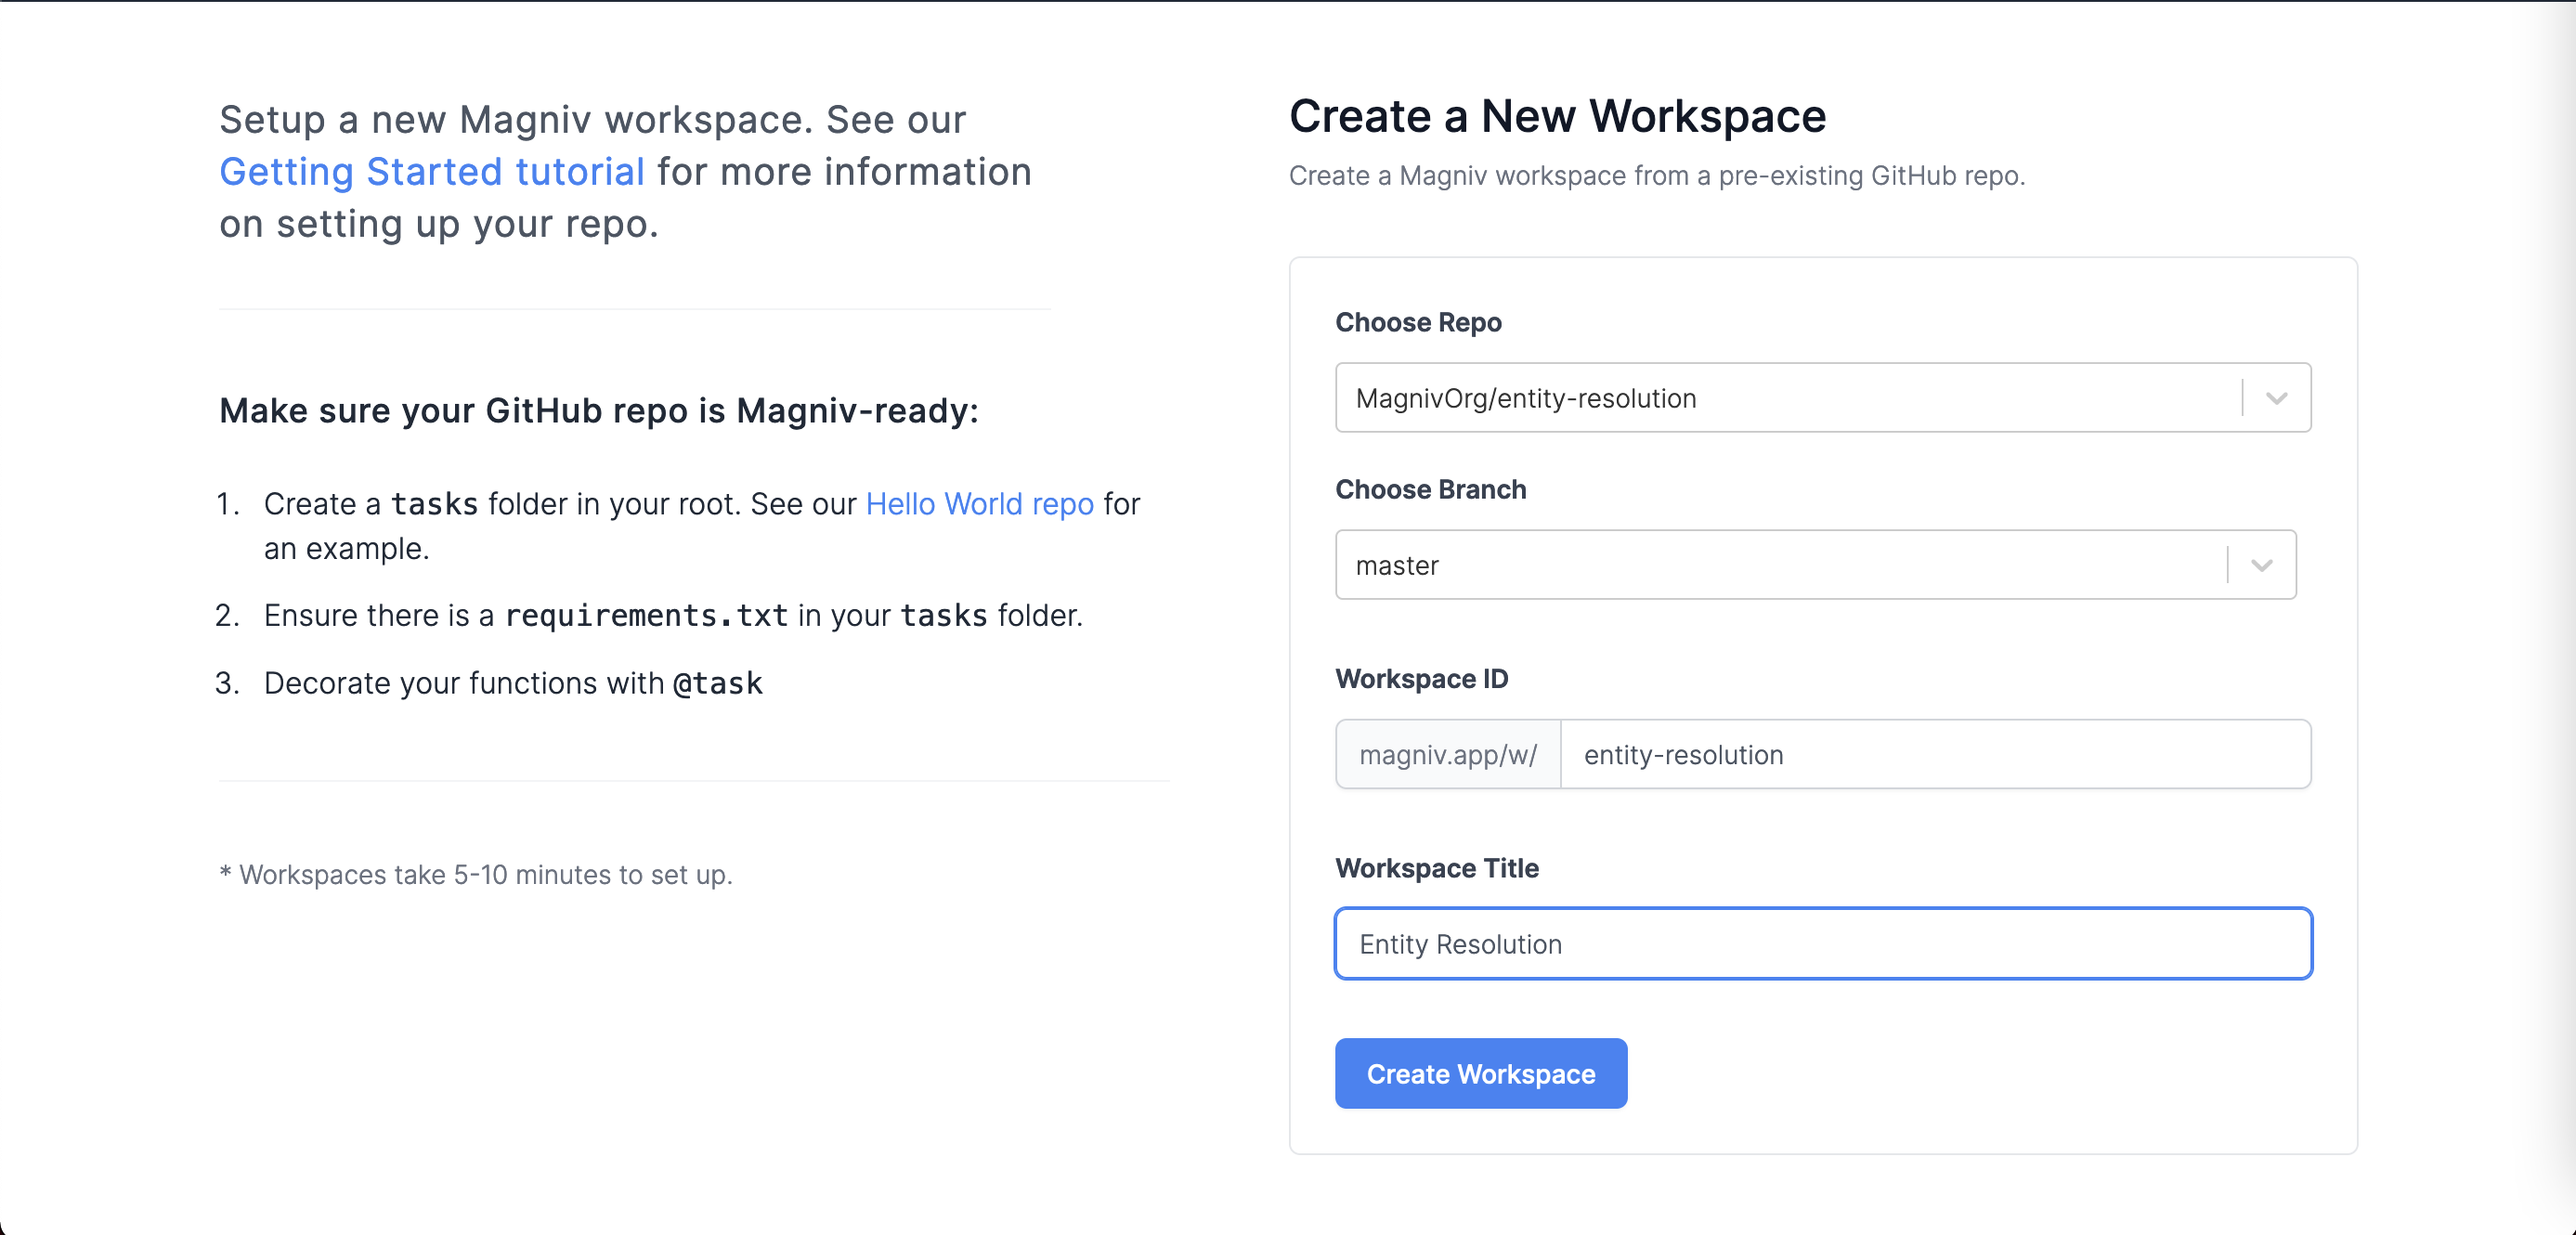
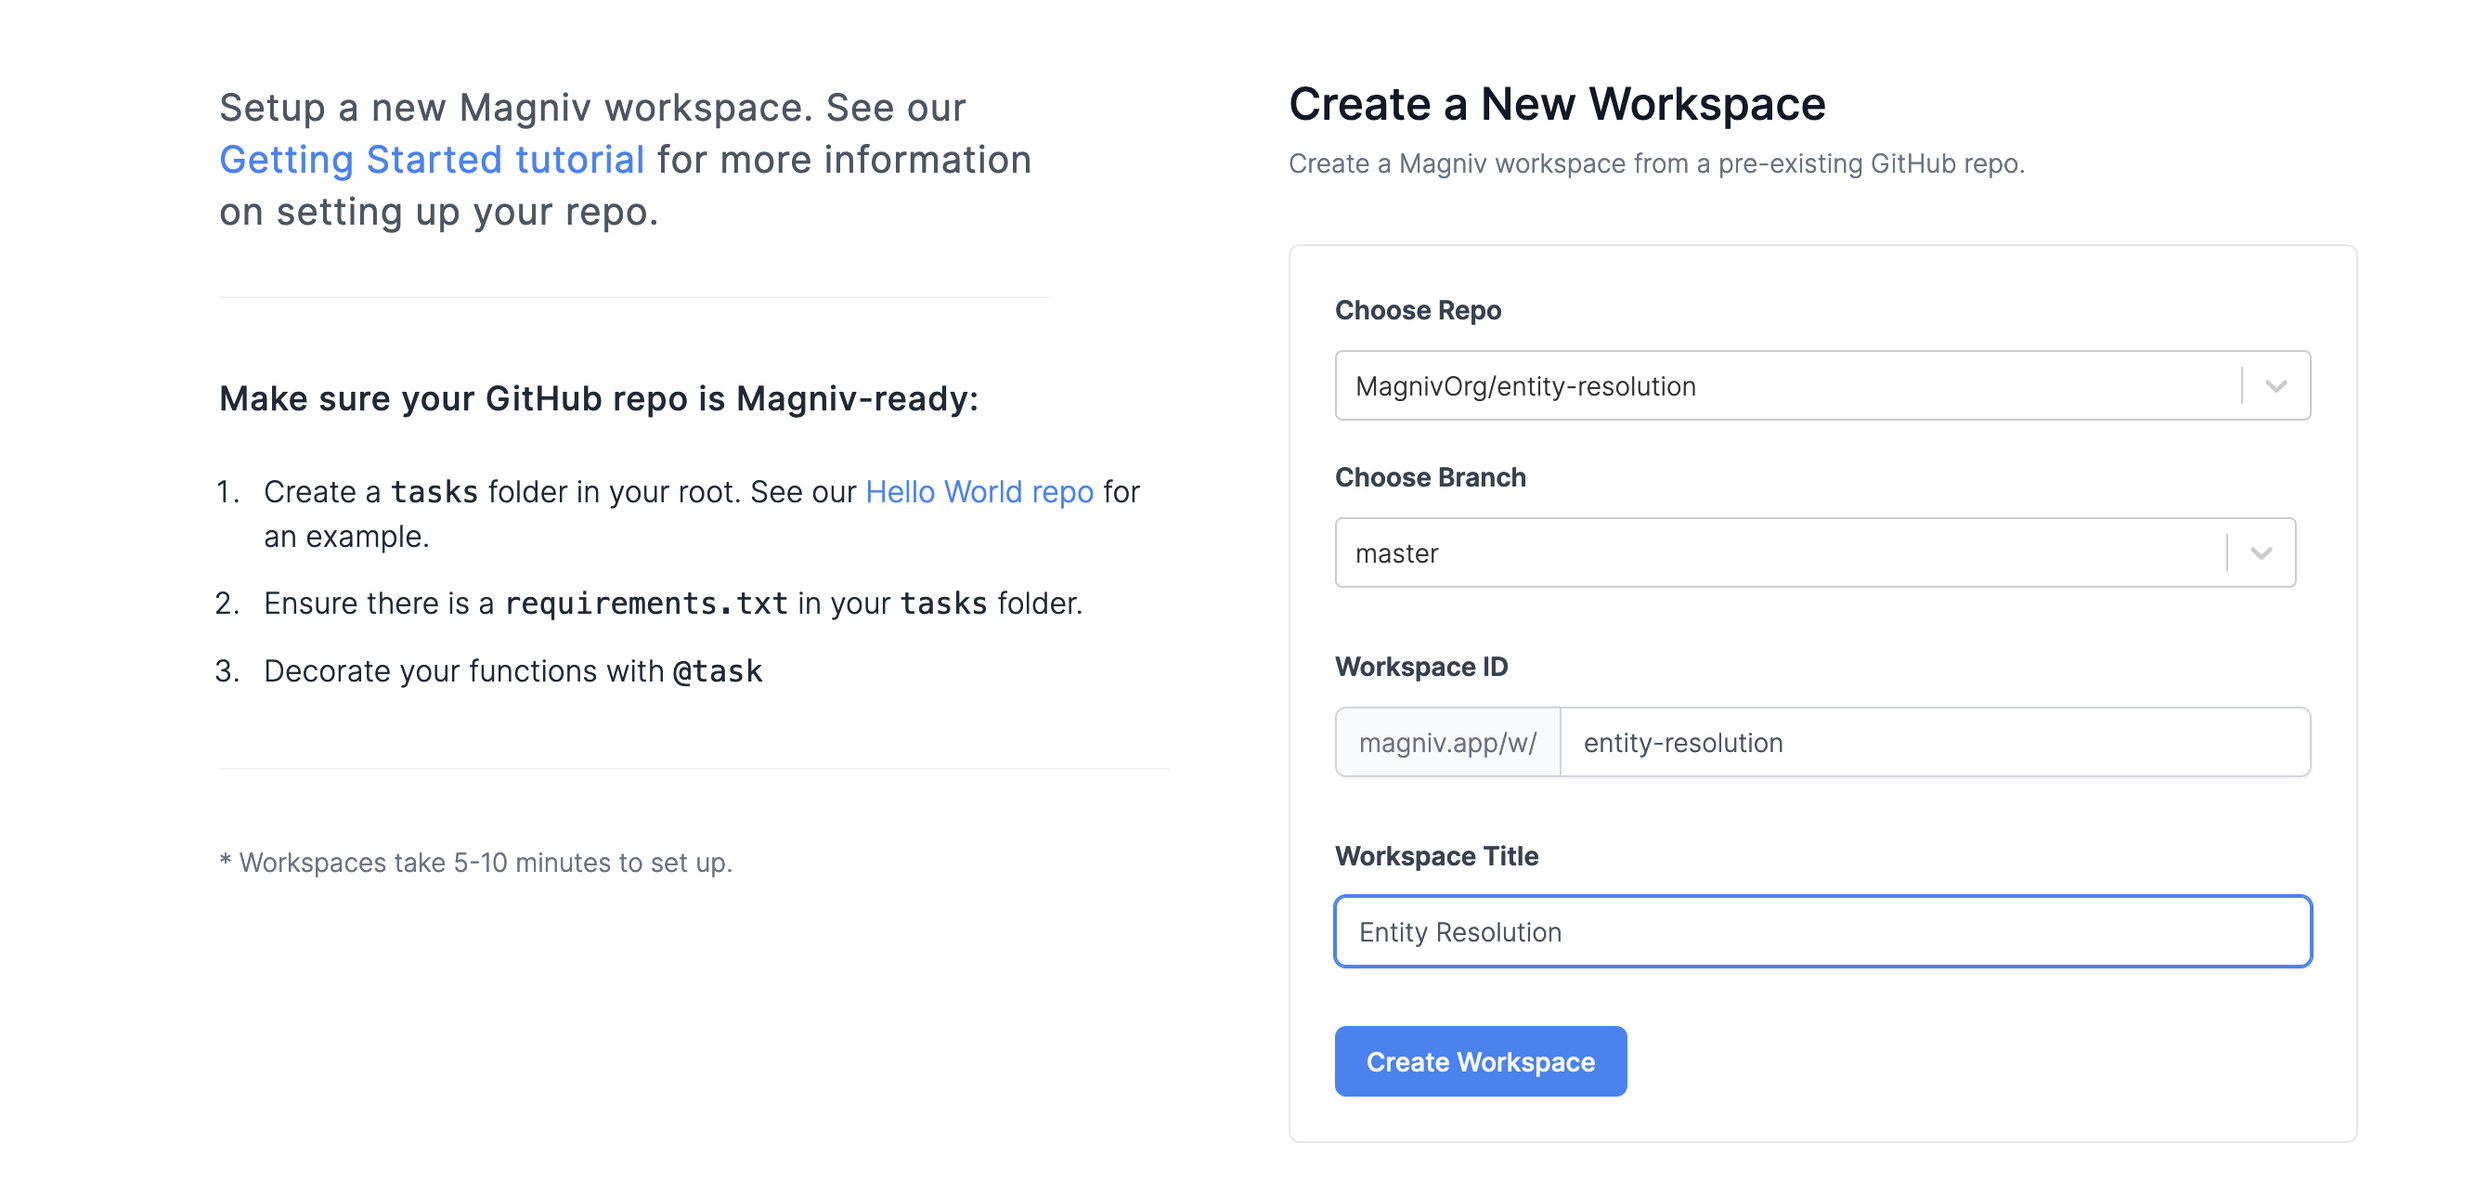
fix screenshots

diff --git a/src/css/custom.css b/src/css/custom.css
@@ -4,6 +4,14 @@
  * work well for content-centric websites.
  */
 
+img {
+  image-rendering: -moz-crisp-edges;         /* Firefox */
+  image-rendering:   -o-crisp-edges;         /* Opera */
+  image-rendering: -webkit-optimize-contrast;/* Webkit (non-standard naming) */
+  image-rendering: crisp-edges;
+  -ms-interpolation-mode: nearest-neighbor;  /* IE (non-standard property) */
+}
+
 /* You can override the default Infima variables here. */
 :root {
   --ifm-color-primary: #2e8555;

diff --git a/docs/tutorials/getting-started.md b/docs/tutorials/getting-started.md
@@ -90,7 +90,7 @@ _Please note: Workspaces take some time to set up, but we will email you when it
 3. Tested your data task
 4. Scheduled and deployed your task to Magniv
 
-# What's next?
+## What's next?
 
 Play around with the Magniv web-UI. Create some new data tasks and watch them automatically deploy.
 
